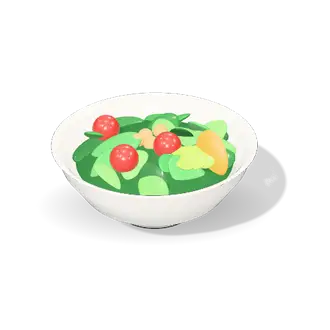
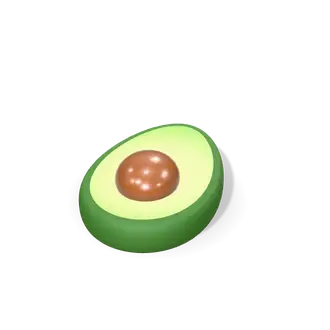
Visual nueva: cabeceras con la gráfica más tenue y centrada, números con jerarquía más sobria, y un aguacate 3D en Alimentación
Claude-Session: https://claude.ai/code/session_017q9eB3jcU4JAqbgUHmF9x1

Changed region(s): [[0.1818, 0.3333, 0.8788, 0.7879]]

diff --git a/src/CabeceraHoy.jsx b/src/CabeceraHoy.jsx
@@ -99,7 +99,7 @@ function lugarDelObjeto(caja) {
 // Con gráfica (las cabeceras de la visual nueva): la gráfica grande es la
 // protagonista, con el objeto 3D chico y tenue adentro, y el porcentaje y su
 // texto debajo.
-const ARO_G = { tam: 112, grosor: 10, objAncho: 58, objAlto: 46 };
+const ARO_G = { tam: 112, grosor: 8, objAncho: 58, objAlto: 46 };
 function lugarEnCaja(caja, ancho, alto) {
   const [l, t, r, b] = caja;
   const lado = Math.min(ancho / (r - l), alto / (b - t));
@@ -123,7 +123,7 @@ export default function CabeceraHoy({ tema = 'entreno', voz, titulo, firma = fal
   const lugar = lugarDelObjeto(CAJA[tema] || CAJA.entreno);
   const grande = conAro;
   const texto = (
-    <div className="cab-texto" style={{ position: 'relative', paddingRight: Ilus ? (grande ? 'min(38vw, 138px)' : conAro ? 'min(46vw, 168px)' : 'min(30vw, 104px)') : 0, minHeight: grande ? 168 : conAro ? 118 : undefined }}>
+    <div className="cab-texto" style={{ position: 'relative', paddingRight: Ilus ? (grande ? 'min(38vw, 138px)' : conAro ? 'min(46vw, 168px)' : 'min(30vw, 104px)') : 0, minHeight: grande ? 182 : conAro ? 118 : undefined }}>
       {voz?.etiqueta && (
         <div data-etiqueta style={{ fontSize: 12, fontWeight: 700, letterSpacing: '0.06em', color: TEXT_MUTED }}>{voz.etiqueta}</div>
       )}
@@ -181,18 +181,20 @@ export default function CabeceraHoy({ tema = 'entreno', voz, titulo, firma = fal
         return (
           <div key={vez} aria-hidden="true" data-ilus-cabecera={tema} data-aro-grande style={{ position: 'absolute', inset: 0, overflow: 'hidden', pointerEvents: 'none' }}>
             <div className="cab-ilus" data-aro-cabecera={tema} style={{
-              position: 'absolute', right: 16, top: `calc(${arriba} + 2px)`, width: 128,
+              position: 'absolute', right: 26, top: `calc(${arriba} + 16px)`, width: 128,
               display: 'flex', flexDirection: 'column', alignItems: 'center', animationDelay: '.1s',
             }}>
               <div style={{ position: 'relative', width: ARO_G.tam, height: ARO_G.tam }}>
-                <AnilloMarca plano frac={aro.frac} color={COLOR_ARO[tema] || TEXT} tam={ARO_G.tam} grosor={ARO_G.grosor} riel="rgba(255,255,255,0.9)" etiqueta={aro.pie} />
+                {/* Tenue: protagonista sobre el objeto, pero sin robarle el
+                    protagonismo a la sección. */}
+                <div style={{ opacity: 0.72 }}><AnilloMarca plano frac={aro.frac} color={COLOR_ARO[tema] || TEXT} tam={ARO_G.tam} grosor={ARO_G.grosor} riel="rgba(255,255,255,0.9)" etiqueta={aro.pie} /></div>
                 {/* El objeto, chico y tenue, adentro de la gráfica. */}
                 <div style={{ position: 'absolute', left: (ARO_G.tam - ARO_G.objAncho) / 2, top: (ARO_G.tam - ARO_G.objAlto) / 2, width: ARO_G.objAncho, height: ARO_G.objAlto, opacity: 0.5 }}>
                   <div style={{ position: 'absolute', left: dentro.left, top: dentro.top, width: dentro.lado, height: dentro.lado }}><ObjetoCabecera tema={tema} activo={activo} /></div>
                 </div>
               </div>
-              <div data-aro-centro style={{ marginTop: 6, fontSize: 22, fontWeight: 800, color: TEXT, letterSpacing: '-0.02em', fontVariantNumeric: 'tabular-nums', lineHeight: 1 }}>{aro.centro}</div>
-              {aro.pie && <div data-aro-pie style={{ marginTop: 3, fontSize: 11.5, fontWeight: 600, color: TEXT_MUTED, textAlign: 'center', lineHeight: 1.2 }}>{aro.pie}</div>}
+              <div data-aro-centro style={{ marginTop: 8, fontSize: 17, fontWeight: 750, color: TEXT, letterSpacing: '-0.01em', fontVariantNumeric: 'tabular-nums', lineHeight: 1 }}>{aro.centro}</div>
+              {aro.pie && <div data-aro-pie style={{ marginTop: 3, fontSize: 11, fontWeight: 500, color: TEXT_MUTED, textAlign: 'center', lineHeight: 1.25 }}>{aro.pie}</div>}
             </div>
           </div>
         );

diff --git a/src/ObjetoCabecera.jsx b/src/ObjetoCabecera.jsx
@@ -1,7 +1,7 @@
 // ─────────────────────────────────────────────────────────────────────────
 // EL OBJETO DE CADA SECCIÓN, EN 3D (visual nueva)
 //
-// La kettlebell (entrenamiento), el plato (alimentación), el libro
+// La kettlebell (entrenamiento), el aguacate (alimentación), el libro
 // (aprendizaje) y la brújula (Dash): modelados y animados en 3D, con la misma
 // luz de estudio y su sombra en el piso. Cada animación es un WebP animado que
 // suena una sola vez al entrar (cae, rebota, se abre…) y se queda en su último
@@ -30,7 +30,7 @@ const DURA = { entreno: 2200, comida: 2400, aprende: 2600, dash: 2400 };
 export const CAJA = {
   // El objeto sin su sombra (la sombra sale hacia la derecha y abajo).
   entreno: [0.2, 0.148, 0.644, 0.785],
-  comida: [0.154, 0.281, 0.779, 0.694],
+  comida: [0.239, 0.376, 0.676, 0.767],   // el aguacate
   aprende: [0.129, 0.31, 0.79, 0.69],
   dash: [0.181, 0.285, 0.819, 0.781],
 };
